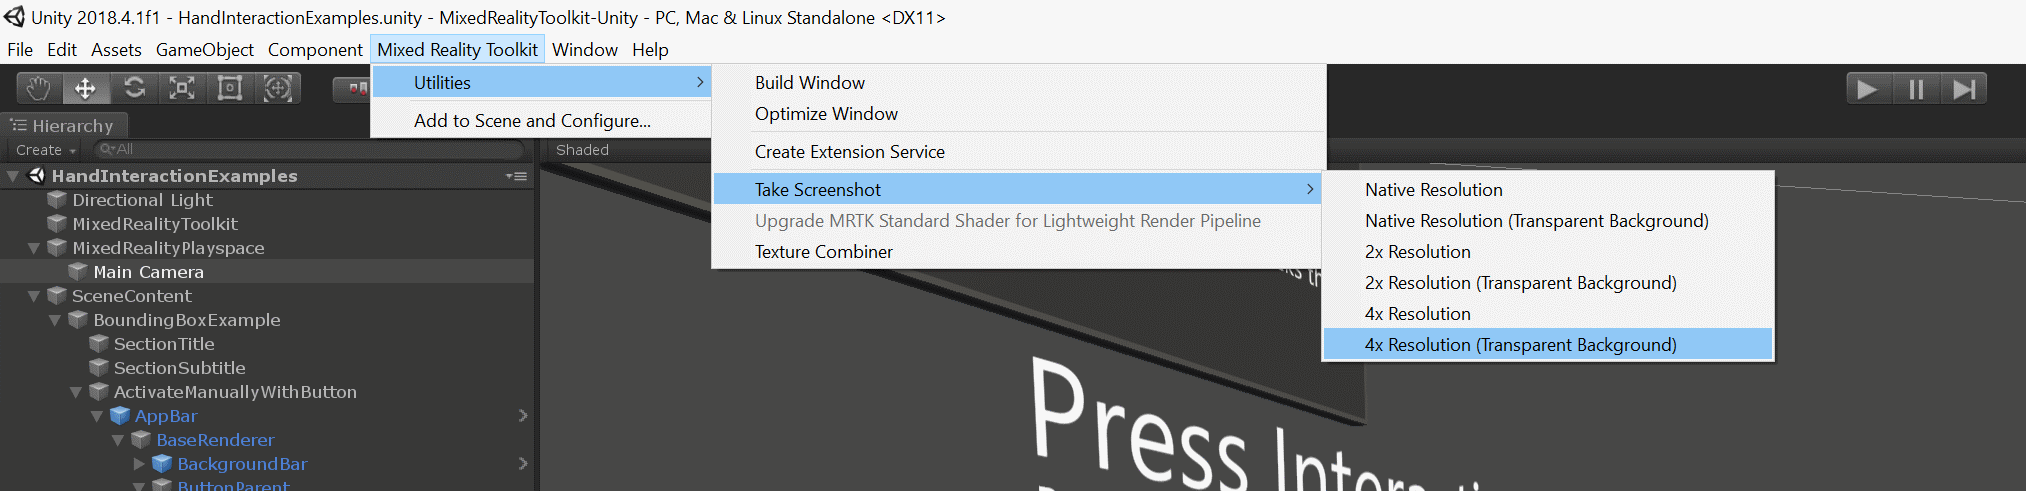
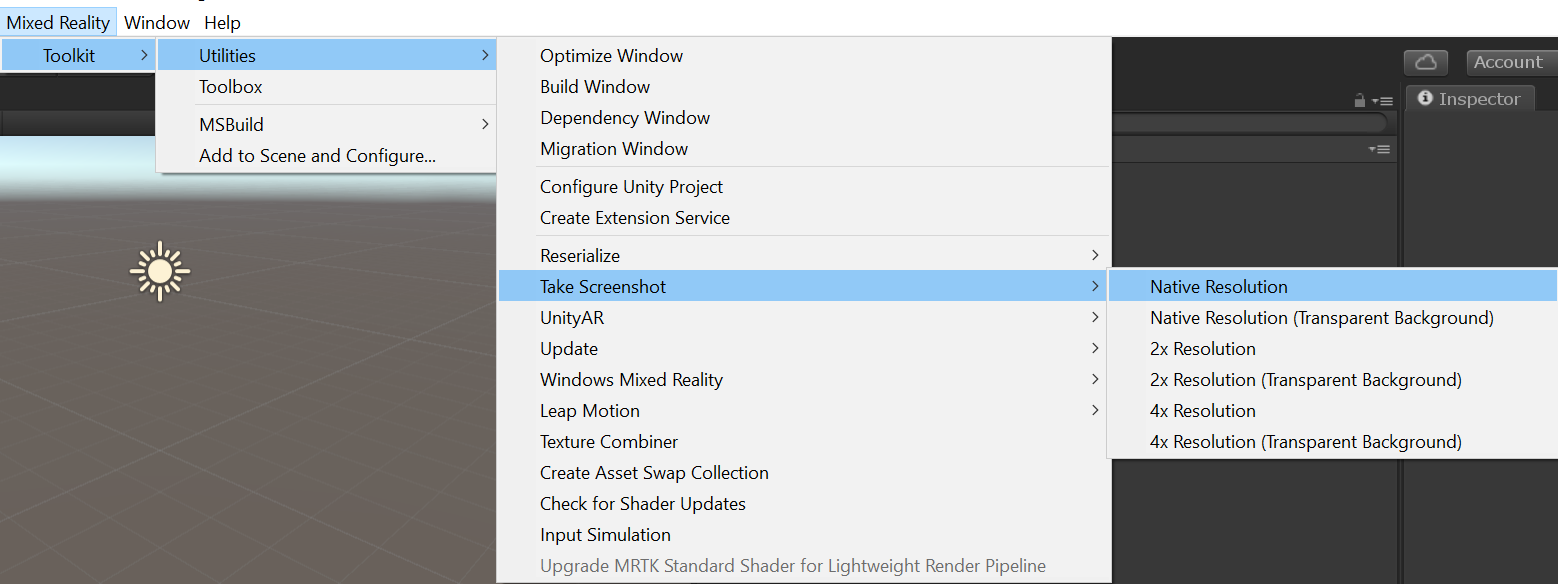
update images and docs re: mrtk menu change

diff --git a/mrtk-unity/features/tools/update-mrtk-shaders.md b/mrtk-unity/features/tools/update-mrtk-shaders.md
@@ -18,10 +18,10 @@ Selecting **Yes** instructs MRTK to overwrite the contents of **Assets** > **MRT
 > [!IMPORTANT]
 > When overwriting the shader files, any custom modifications will be lost. Be sure to backup any modified shader files before upgrading.
 >
-> If the project has been configured to use the Universal Render Pipeline (URP) - formerly Lightweight Render Pipeline (LWRP), please re-run **Mixed Reality Toolkit** > **Utilities** >
+> If the project has been configured to use the Universal Render Pipeline (URP) - formerly Lightweight Render Pipeline (LWRP), please re-run **Mixed Reality** > **Toolkit** > **Utilities** >
 > **Upgrade MRTK Standard Shader for Lightweight Render Pipeline**.
 
-At is also possible to check for shader updates at any time using **Mixed Reality Toolkit** > **Utilities** > **Check for Shader Updates** on the Unity Editor's menu bar.
+At is also possible to check for shader updates at any time using **Mixed Reality** > **Toolkit** > **Utilities** > **Check for Shader Updates** on the Unity Editor's menu bar.
 
 ![Check for shader updates](../images/tools/ShaderUpdateMenu.png)
 

diff --git a/mrtk-unity/features/tools/screenshot-utility.md b/mrtk-unity/features/tools/screenshot-utility.md
@@ -15,7 +15,7 @@ The ScreenshotUtility class aides in taking screenshots via menu items and publi
 
 ## Taking screenshots
 
-Screenshots can be easily capture while in the editor by selecting *Mixed Reality Toolkit->Utilities->Take Screenshot* and then selecting your desired option. Make sure to have the game window tab visible if capturing while not playing, or a screenshot may not be saved.
+Screenshots can be easily capture while in the editor by selecting **Mixed Reality** > **Toolkit** > **Utilities** > **Take Screenshot** and then selecting your desired option. Make sure to have the game window tab visible if capturing while not playing, or a screenshot may not be saved.
 
 By default, all screenshots are saved to your [temporary cache path](https://docs.unity3d.com/ScriptReference/Application-temporaryCachePath.html), the path to the screenshot will be displayed in the Unity console.
 

diff --git a/mrtk-unity/features/tools/holographic-remoting.md b/mrtk-unity/features/tools/holographic-remoting.md
@@ -30,7 +30,7 @@ The instructions below only apply to remoting with HoloLens 2. If you only perfo
 
 When using a HoloLens 2, support for remoting articulated hand and eye tracking data has been added to MRTK. To enable these features, please follow the steps documented in [Import DotNetWinRT into the project](#import-dotnetwinrt-into-the-project).
 
-Once imported, the next step is to select **Mixed Reality Toolkit** > **Utilities** > **Windows Mixed Reality** > **Check Configuration**. This step adds a scripting define that enables the DotNetWinRT dependency.
+Once imported, the next step is to select **Mixed Reality** > **Toolkit** > **Utilities** > **Windows Mixed Reality** > **Check Configuration**. This step adds a scripting define that enables the DotNetWinRT dependency.
 
 > [!NOTE]
 > When using Unity 2019.4 and newer, it is not necessary to run the Check Configuration utility.

diff --git a/mrtk-unity/features/tools/dependency-window.md b/mrtk-unity/features/tools/dependency-window.md
@@ -15,7 +15,7 @@ The Dependency Window displays how assets reference and depend on each other. De
 
 ## Usage
 
-To open the window, select *Mixed Reality Toolkit->Utilities->Dependency Window* which will open the window and automatically begin building your project's dependency graph. Once the dependency graph is built, you can select assets in the project tab to inspect their dependencies.
+To open the window, select **Mixed Reality** > **Toolkit** > **Utilities** > **Dependency Window** which will open the window and automatically begin building your project's dependency graph. Once the dependency graph is built, you can select assets in the project tab to inspect their dependencies.
 
 ![Dependency window](../images/dependency-window/MRTK_Dependency_Window.png)
 

diff --git a/mrtk-unity/features/tools/migration-window.md b/mrtk-unity/features/tools/migration-window.md
@@ -16,7 +16,7 @@ The migration window is a tool that helps users to automatically migrate a subse
 
 ## Usage
 
-To open the window, select *Mixed Reality Toolkit* > *Utilities* > *Migration Window*. Once the migration window is open, the selection mode navigation tabs can be enabled by choosing the component specific implementation of the migration handler.  
+To open the window, select **Mixed Reality** > **Toolkit** > **Utilities** > **Migration Window**. Once the migration window is open, the selection mode navigation tabs can be enabled by choosing the component specific implementation of the migration handler.  
 
 ![Migration selection modes](../images/migration-window/MRTK_Migration_Modes.png)
 
